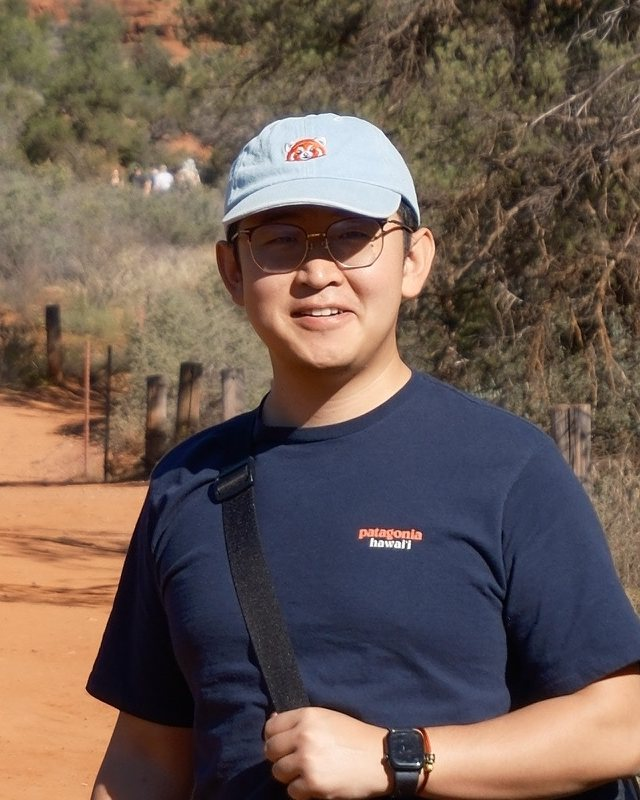
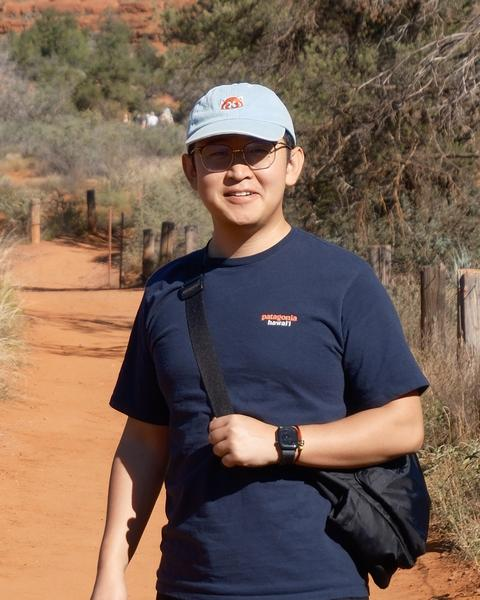
Home page: smaller profile photos (480x600); hiking photo cropped at the waist
Claude-Session: https://claude.ai/code/session_01QY3Vc34bFHTpAaFCyH12by

diff --git a/_pages/about.md b/_pages/about.md
@@ -10,7 +10,7 @@ subtitle: >
 profile:
   align: right
   # One photo is picked at random on each visit. To add one, put it in
-  # assets/img/ (about 4:5, e.g. 640x800) and list its file name here.
+  # assets/img/ (about 4:5, e.g. 480x600) and list its file name here.
   images:
     - prof_pic.jpg
     - prof_pic_2.jpg
